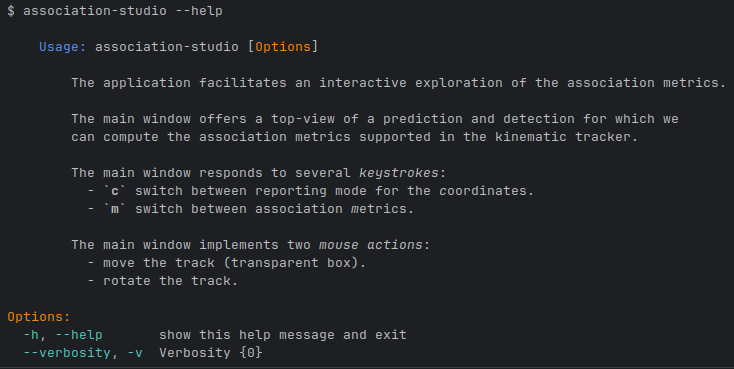
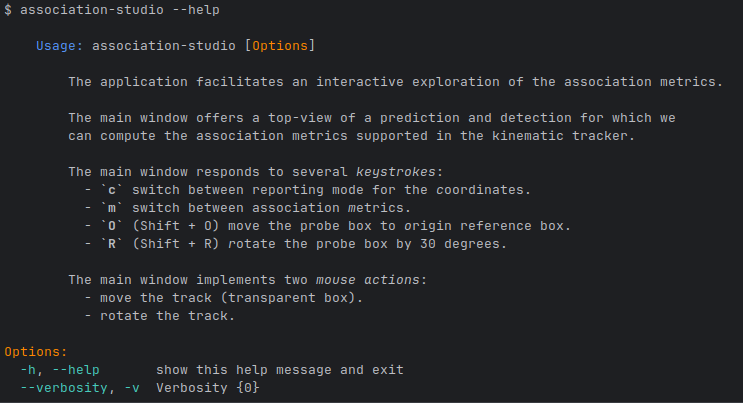
update the help usage screenshot

diff --git a/copy-my-readme.md b/copy-my-readme.md
@@ -16,7 +16,7 @@ There is a matplotlib-driven GUI
 association-studio
 ```
 
-<img src="assets/screenshot.png" width="641" alt="screenshot">
+<img src="assets/screenshot.png" width="957" alt="screenshot">
 
 Checkout the active keystrokes and mouse events in the brief usage description:
 
@@ -24,7 +24,7 @@ Checkout the active keystrokes and mouse events in the brief usage description:
 association-studio --help
 ```
 
-<img src="assets/help-usage.png" width="734" alt="usage">
+<img src="assets/help-usage.png" width="743" alt="usage">
 
 
 ## Install
